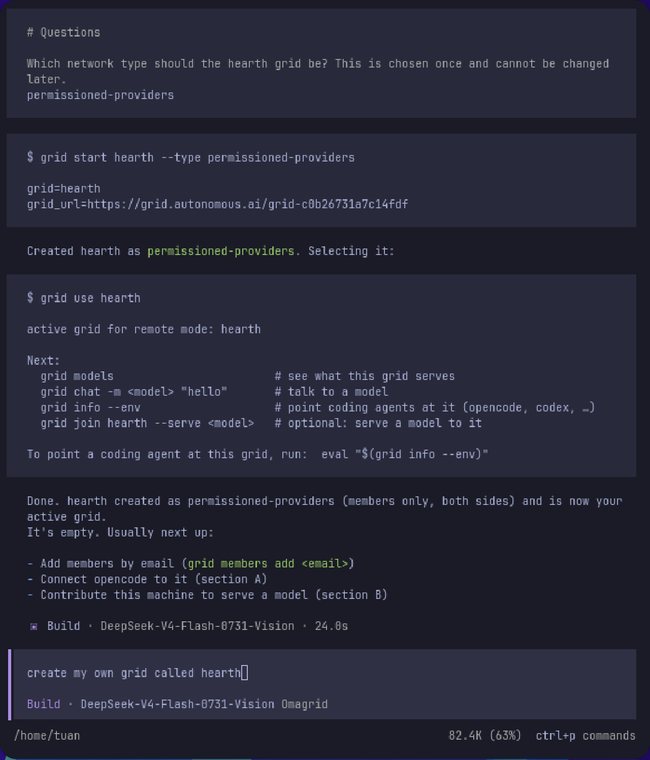
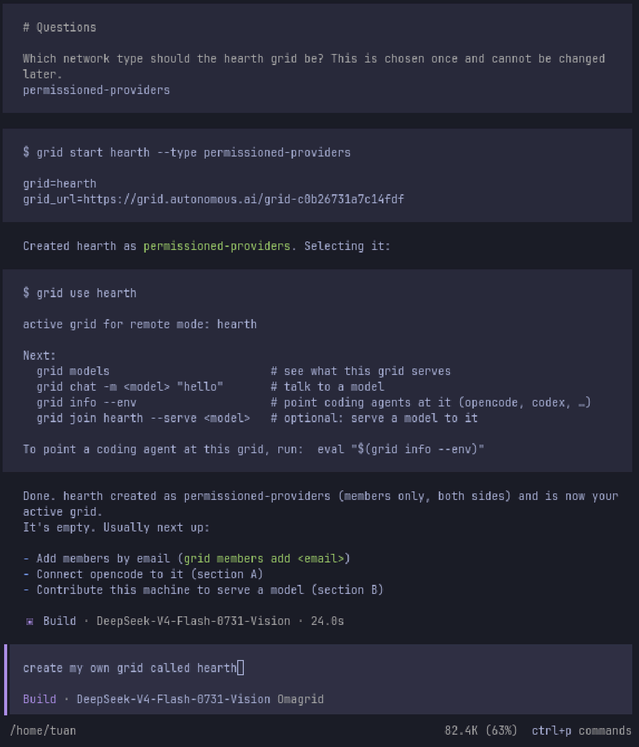
docs: one screenshot for step 6, the one that shows the whole exchange
The three images added a step ago were two too many: the created-grid shot already contains
the question and the answer that produced it, so the separate ask shot repeated itself, and
the member one illustrated a line that reads fine on its own. Keeps the author's own crop,
which sits tighter than the scripted one.

diff --git a/docs/omagrid-quickstart.md b/docs/omagrid-quickstart.md
@@ -137,9 +137,7 @@ Answer it there, or put the answer in the prompt itself — **"create my own gri
 providers-only"** — and it goes straight through. Worth a moment either way: the type is set at
 creation and stays.
 
-![OpenCode asking which network type the new grid should be](./omagrid-create-ask.png)
-
-![OpenCode reporting the grid it created, the type it got, and what usually comes next](./omagrid-create-done.png)
+![OpenCode answering the network-type question, creating the grid and selecting it](./omagrid-create-done.png)
 
 Then fill it:
 
@@ -154,8 +152,6 @@ contribute this machine to <name>
 The first invites someone by email — add **"as a consumer"** or **"as a provider"** to hand them
 just that half. The second is step 4 again, aimed at your own grid: same model, same engine on
 disk. Your machine happily serves both grids at once.
-
-![OpenCode confirming the member it added and the role they got](./omagrid-add-member.png)
 
 Point any other client at it with **"print my grid's endpoint and key"** — OpenAI-compatible,
 same as Omagrid.
